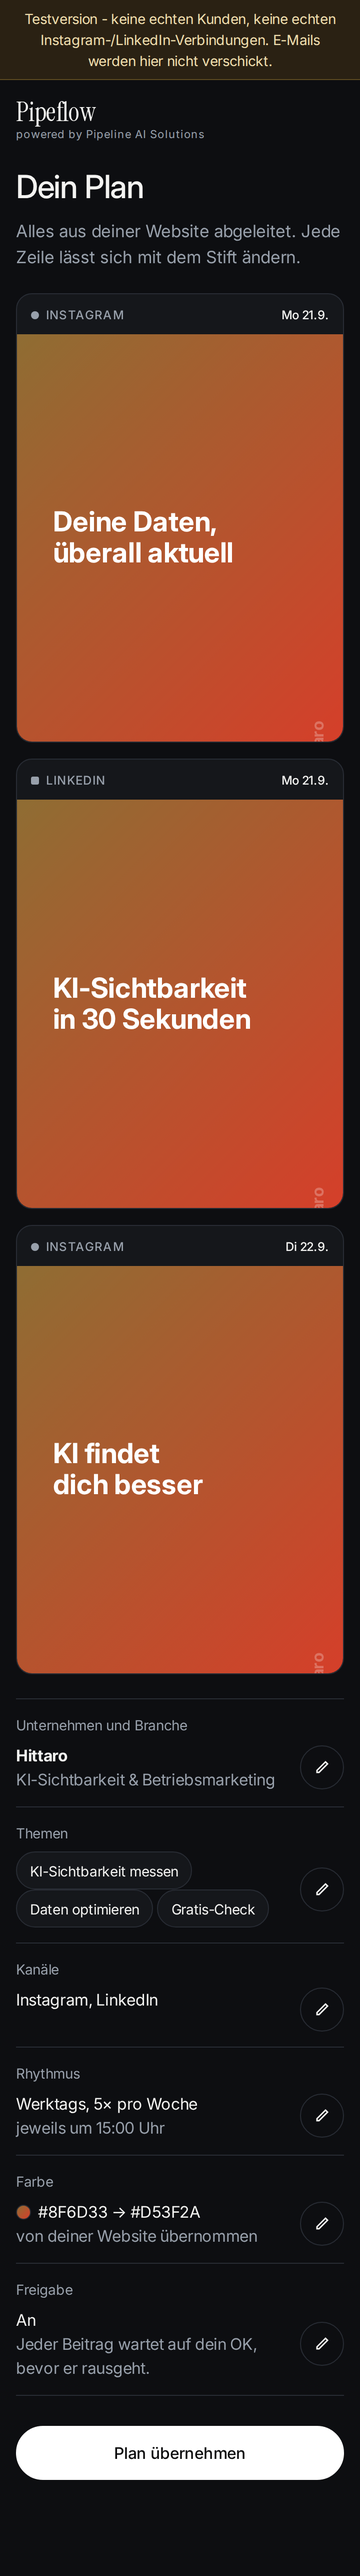
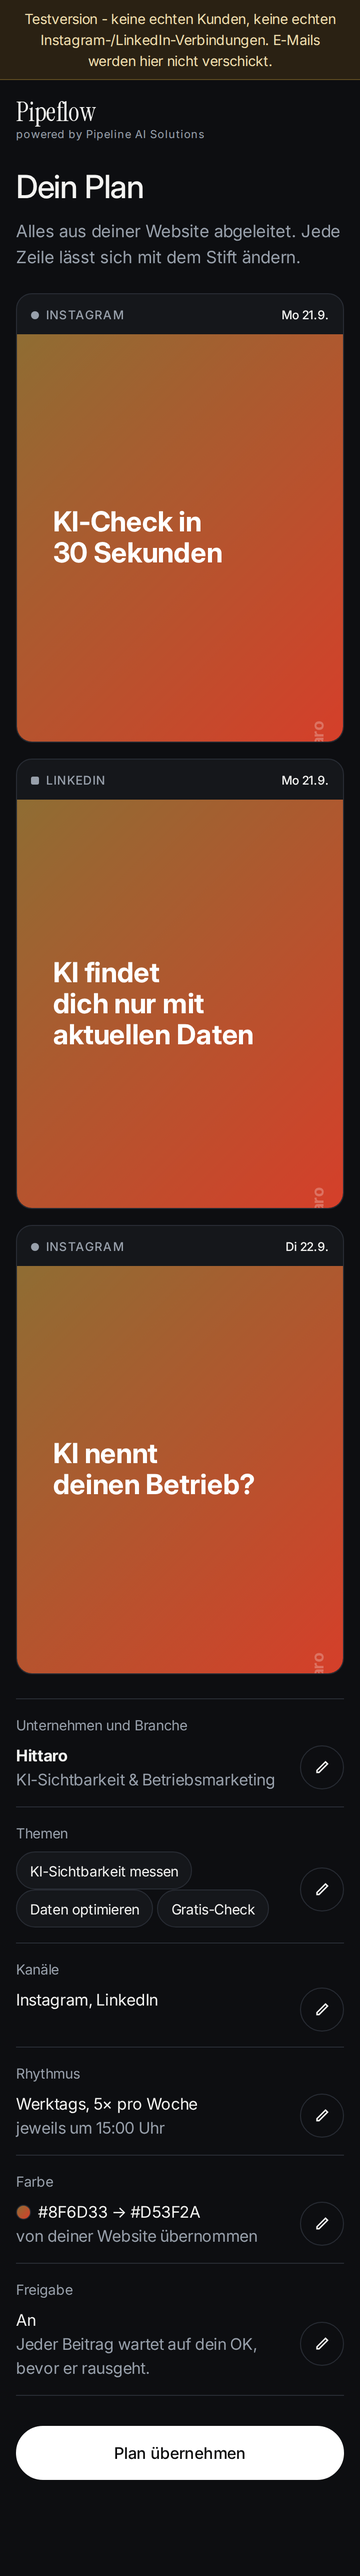
Easy Onboarding v2: Tests, Screenshots und Report
Browser-Lauf 141 Pruefungen ohne Befund (360 und 1440 px), test-start 60,
test-auth 21, test-prod-copy 64, test-panel 251, quota 6, backoff 15.
Behoben: Microsoft-Knopf brach bei 360 px um, Rhythmus-Zeile zeigte die Zahl
doppelt, Pruef-Filter kannten die neuen Klassennamen nicht.

diff --git a/public/panel/start/start.js b/public/panel/start/start.js
@@ -100,7 +100,8 @@
     const tage = postTage(c);
     const schluessel = [...tage].sort().join(",");
     const treffer = Object.entries(RHYTHMUS).find(([, f]) => f.tage.join(",") === schluessel);
-    if (treffer) return `${RHYTHMUS[treffer[0]].label}, ${tage.length}× pro Woche`;
+    // "3× pro Woche" traegt die Zahl schon im Namen - nur "Werktags"/"Täglich" bekommen sie dazu.
+    if (treffer) { const l = RHYTHMUS[treffer[0]].label; return l.includes("×") ? l : `${l}, ${tage.length}× pro Woche`; }
     return `${tage.length}× pro Woche (${tage.map((d) => WOCHENTAG_KURZ[d % 7]).join(", ")})`;
   }
   const GRAD_WINKEL = { horizontal: "90deg", vertical: "180deg", diagonal: "135deg" };

diff --git a/docs/EASY_ONBOARDING_REPORT.md b/docs/EASY_ONBOARDING_REPORT.md
@@ -241,21 +241,35 @@ gegengeprüft. Bedienung: Ziehen am Griff und Pfeile hoch/runter (44 px, auch mi
 | `npm run test:auth` (Anmeldung Ende zu Ende gegen Attrappen-Anbieter) | **21 passed, 0 failed** |
 | `npm run test:start-quota` (Kostenschutz-Logik) | **6 passed, 0 failed** |
 | `npm run test:start` (HTTP gegen Staging, echte Vorschau) | **60 passed, 0 failed** |
-| `npm run test:start-browser` (Chromium 360 und 1440 px, jeder Bildschirm) | siehe unten |
+| `npm run test:start-browser` (Chromium 360 und 1440 px, jeder Bildschirm) | **141 Prüfungen, 0 Probleme** |
 | `npm run test:prod-copy` (Sandbox-Build gegen Kopie der Produktions-DB) | **64 passed, 0 failed** |
 | `npm run test:panel` (bestehende Suite, 251 Prüfungen) | **251 passed, 0 failed** |
 | `npm run test:backoff` | **15 passed, 0 failed** |
 | `npm run audit:panel` | ein Befund, **vorbestehend auch auf `main`** (87 `ob-*`-Klassen; die Prüfung liest `onboarding.css` nicht). Beide Oberflächen sind erfasst: jeder API-Aufruf hat eine Route, jede Route wird aufgerufen. |
 | `npm run test:onboarding` (klassisches Onboarding) | **schlägt fehl, vorbestehend**: das Skript sucht `#fp-progress`, das es seit dem Umbau vom 18.09. auch auf `main` nicht mehr gibt. Am klassischen Panel wurde in diesem Auftrag nichts geändert. |
 
+Was der Browser-Lauf im Einzelnen belegt: drei Anmeldewege sichtbar und ehrlich als „kommt
+noch" gekennzeichnet, Kopfzeile mit Produktname und Zusatzzeile auf jedem Bildschirm, fünf
+Fortschrittsschritte einschließlich „Farben übernommen", erster fertiger Beitrag nach 4
+Sekunden, drei echte Bilder und sieben Platzhalter vor der Bestätigung, **kein leerer Tag** im
+Ergebnis und im Dashboard, die Vorschaukarten ändern sich beim Ziehen am Farbregler live mit,
+Umsortieren per Pfeil vom Server bestätigt, nach der Bestätigung null Platzhalter übrig. Je
+Bildschirm geprüft: nichts über den Rand, höchstens ein Pflichtfeld, Tap-Ziele ab 44 px, keine
+Überlappung, keine JavaScript-Fehler.
+
 Unterwegs gefunden und behoben, damit es nicht wie „lief sofort" aussieht: `/start` ohne Slash
 wurde hinter dem Sandbox-Proxy falsch umgeleitet; das Polling endete stumm beim Wechsel von
 „Es arbeitet" auf „Ergebnis"; jedes Neuzeichnen blendete den Bildschirm neu ein (Flackern);
 das Turnstile-Token war beim schnellen Tippen noch nicht da; Tap-Ziele unter 44 px im Dashboard;
-Kanaltexte in der Sie-Form; die Kostenbuchung für lokal gerenderte Bilder; und der
+Kanaltexte in der Sie-Form; die Kostenbuchung für lokal gerenderte Bilder; der
 Einmal-Anmeldelink statt des Ersetzens des dauerhaften Zugangslinks (die erste Fassung hätte
 jedem Fremden erlaubt, den gespeicherten Link eines Kunden zu entwerten - der Test hat es
-aufgedeckt).
+aufgedeckt); „Mit Microsoft fortfahren" brach bei 360 px zweizeilig um; und die Rhythmus-Zeile
+zeigte „3× pro Woche, 3× pro Woche", weil die Zahl zweimal angehängt wurde.
+
+Ein Lauf davor meldete einen einzelnen 502-Fehler - den hatte ich selbst verursacht, weil ich
+den Sandbox-Prozess mitten im Browser-Test neu gestartet habe. Der abschließende Lauf ist
+ungestört gelaufen.
 
 ---
 
